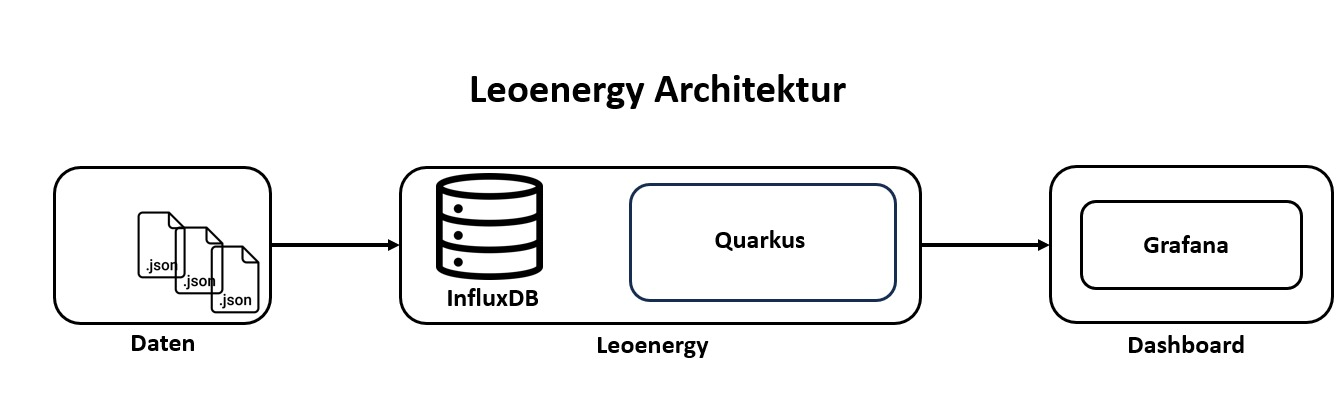
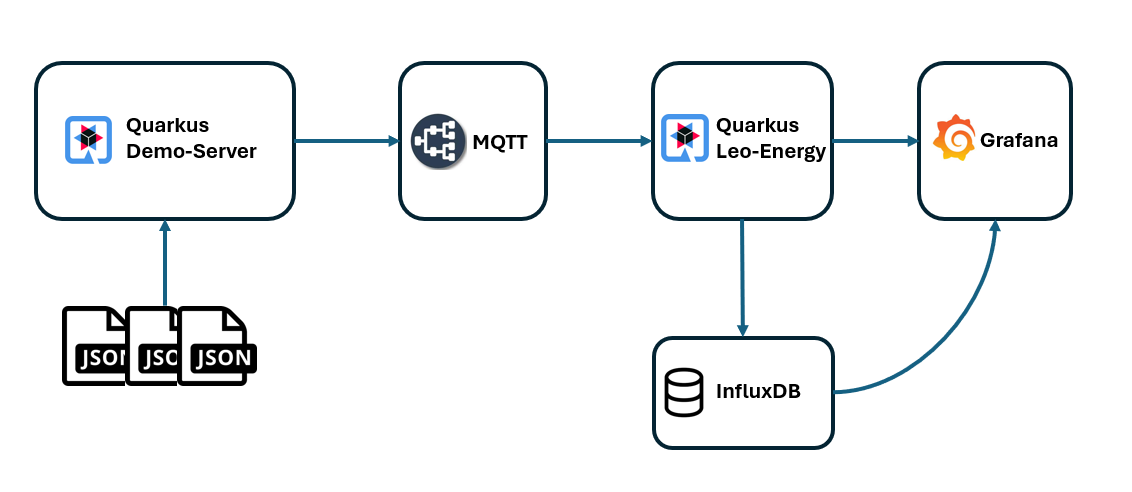
#244biot-56
doc: updated slides
- added sprint8 info
- added architecture.png

diff --git a/backend/leoenergy-mqtt-server-demo/src/main/java/at/htlleonding/entity/SensorValue.java b/backend/leoenergy-mqtt-server-demo/src/main/java/at/htlleonding/entity/SensorValue.java
@@ -9,7 +9,7 @@ public class SensorValue {
     private BigInteger id;
 
     Device device;
-    private Long measurementId;g
+    private Long measurementId;
     private String description;
 
     private String unit;
